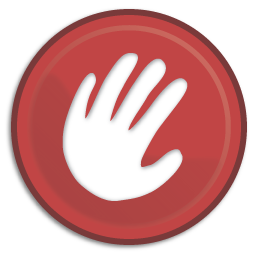
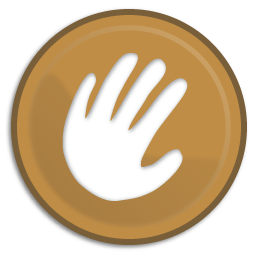
Added Finish gesture, + 2 extra hand states
* Added finish gesture: This is always called whenever any gesture is
finished on an object.
* Added 2 extra hand levels

diff --git a/Assets/Scripts/HandyGestures/HandyDetector.cs b/Assets/Scripts/HandyGestures/HandyDetector.cs
@@ -15,7 +15,6 @@ public class HandyDetector : MonoBehaviour
 		LongPress,
 		Tap,
 		Pan,
-		Slide,
 		Fling
 	}
 
@@ -83,7 +82,7 @@ public class HandyDetector : MonoBehaviour
 	void Reset()
 	{
 		_target = null;
-		_prevType = Gesture.Press;
+		//_prevType = Gesture.Press;
 		if (_activeState != null && _activeState != _idle) {
 			_idle.Activate();
 		}
@@ -124,9 +123,11 @@ public class HandyDetector : MonoBehaviour
 				if (_target != null) {
 					ITap tap = _target as ITap;
 					if (tap != null) {
+						_prevType = Gesture.Tap;
 						tap.OnGestureTap(args); 
 					}
 				} else {
+					_prevType = Gesture.Tap;
 					DoGesture<ITap, TapArgs>(_objects, (t, a) => t.OnGestureTap(a), args);
 				}
 			}
@@ -149,6 +150,7 @@ public class HandyDetector : MonoBehaviour
 					if (lpress != null) {
 						lpress.OnGestureLongPress(largs);
 						handled = largs.handled;
+						_prevType = Gesture.LongPress;
 						longState.Activate();
 					}
 					if (!handled) {
@@ -169,6 +171,7 @@ public class HandyDetector : MonoBehaviour
 							lpress.OnGestureLongPress(largs);
 							if (largs.handled) {
 								_target = lpress;
+								_prevType = Gesture.LongPress;
 								longState.Activate();
 								break;
 							}
@@ -178,6 +181,7 @@ public class HandyDetector : MonoBehaviour
 							pan.OnGesturePan(pArgs);
 							if (pArgs.handled) {
 								_target = pan;
+								_prevType = Gesture.Pan;
 								panState.Activate();
 								break;
 							}
@@ -201,12 +205,18 @@ public class HandyDetector : MonoBehaviour
 				if (fling != null) {
 					fling.OnGestureFling(sArgs);
 					handled = sArgs.handled;
+					if (handled) {
+						//Stay in slide state!
+						_prevType = Gesture.Fling;
+					}
 				}
 				if (!handled) {
 					pan = _target as IPan;
 					if (pan != null) {
 						pan.OnGesturePan(pArgs);
 						if (pArgs.handled) {
+							_prevType = Gesture.Pan;
+							//Change state!
 							panState.Activate();
 						}
 					}
@@ -219,6 +229,7 @@ public class HandyDetector : MonoBehaviour
 						if (sArgs.handled) {
 							//Stay in slide state!
 							_target = fling;
+							_prevType = Gesture.Fling;
 							break;
 						}
 					}
@@ -228,6 +239,7 @@ public class HandyDetector : MonoBehaviour
 						if (pArgs.handled) {
 							//Change state!
 							_target = pan;
+							_prevType = Gesture.Pan;
 							panState.Activate();
 							break;
 						}
@@ -275,7 +287,7 @@ public class HandyDetector : MonoBehaviour
 
 		slideState.Interrupt += delegate {
 			if (slideState.time <= flingTime) {
-				FlingArgs sArgs = new FlingArgs(_prevType, FlingArgs.State.Interrupt, slideState.startPos, _device.pos1);
+				FlingArgs sArgs = new FlingArgs(Gesture.Fling, FlingArgs.State.Interrupt, slideState.startPos, _device.pos1);
 				IFling f = _target as IFling;
 				if (f != null) {
 					f.OnGestureFling(sArgs);
@@ -339,7 +351,7 @@ public class HandyDetector : MonoBehaviour
 			if (!moved()) {
 				IPan pan = _target as IPan;
 				if (pan != null) {
-					PanArgs pArgs = new PanArgs(Gesture.Fling, PanArgs.State.Hold, panState.startPos, _device.pos1, Vector2.zero);
+					PanArgs pArgs = new PanArgs(Gesture.Pan, PanArgs.State.Hold, panState.startPos, _device.pos1, Vector2.zero);
 					pan.OnGesturePan(pArgs);
 				}
 			}
@@ -348,7 +360,7 @@ public class HandyDetector : MonoBehaviour
 		panState.Moved += delegate {
 			IPan pan = _target as IPan;
 			if (pan != null) {
-				PanArgs pArgs = new PanArgs(Gesture.Fling, PanArgs.State.Move, panState.startPos, _device.pos1, _deltaMove);
+				PanArgs pArgs = new PanArgs(Gesture.Pan, PanArgs.State.Move, panState.startPos, _device.pos1, _deltaMove);
 				pan.OnGesturePan(pArgs);
 			}
 		};
@@ -356,7 +368,7 @@ public class HandyDetector : MonoBehaviour
 		panState.Up += delegate {
 			IPan pan = _target as IPan;
 			if (pan != null) {
-				PanArgs pArgs = new PanArgs(Gesture.Fling, PanArgs.State.Up, panState.startPos, _device.pos1, Vector2.zero);
+				PanArgs pArgs = new PanArgs(Gesture.Pan, PanArgs.State.Up, panState.startPos, _device.pos1, Vector2.zero);
 				pan.OnGesturePan(pArgs);
 			}
 			Reset();
@@ -365,7 +377,7 @@ public class HandyDetector : MonoBehaviour
 		panState.Interrupt += delegate {
 			IPan pan = _target as IPan;
 			if (pan != null) {
-				PanArgs pArgs = new PanArgs(Gesture.Fling, PanArgs.State.Interrupt, panState.startPos, _device.pos1, Vector2.zero);
+				PanArgs pArgs = new PanArgs(Gesture.Pan, PanArgs.State.Interrupt, panState.startPos, _device.pos1, Vector2.zero);
 				pan.OnGesturePan(pArgs);
 			}
 
@@ -376,7 +388,7 @@ public class HandyDetector : MonoBehaviour
 
     #endregion
 
-	int Supported<T>(Vector2 pos)
+	/*int Supported<T>(Vector2 pos)
 	{
 		return Supported<T>(GetAllObjects(pos));
 	}
@@ -389,7 +401,7 @@ public class HandyDetector : MonoBehaviour
 			}
 		}
 		return -1;
-	}
+	}*/
 
 	private delegate void GestureAction<T,TA>(T obj,TA args);
 
@@ -433,7 +445,16 @@ public class HandyDetector : MonoBehaviour
 			}
 		}
 		if (_device.state1 == Device.DeviceState.Up) {
+			IGesture gesture = _target;
 			_activeState.InvokeUp();
+
+			if (gesture != null) {
+				IFinished finished = gesture as IFinished;
+				if (finished != null) {
+					FinishedArgs args = new FinishedArgs(_prevType, false, _startPos, _device.pos1);
+					finished.OnGestureFinished(args);
+				}
+			}
 		}
 	}
 

diff --git a/Assets/Scripts/PlayerController.cs b/Assets/Scripts/PlayerController.cs
@@ -13,28 +13,40 @@ public class PlayerController : MonoBehaviour, IPan
 		Filthy
 	}
 
-	public HandState handState { get; set; }
 
-	public HandState improveHand()
-	{
-		if (handState == HandState.Dirty) {
-			handState = HandState.Clean;
-		} else if (handState == HandState.Filthy) {
-			handState = HandState.Dirty;
+	int _cleanLevel;
+
+	public HandState handState {
+		get {
+			switch (_cleanLevel) {
+			case 0:
+				return HandState.Clean;
+			case 1:
+			case 2:
+				return HandState.Dirty;
+			default:
+				return HandState.Filthy;
+			}
 		}
-		
-		return handState;
 	}
 
-	public HandState spoilHand()
+	public int cleanLevel {
+		get { return _cleanLevel; }
+		set { _cleanLevel = Mathf.Clamp(value, 0, 4); }
+	}
+
+	public void clean() {
+		_cleanLevel = 0;
+	}
+
+	public void improveHand()
 	{
-		if (handState == HandState.Clean) {
-			handState = HandState.Dirty;
-		} else if (handState == HandState.Dirty) {
-			handState = HandState.Filthy;
-		}
-		
-		return handState;
+		--cleanLevel;
+	}
+
+	public void spoilHand()
+	{
+		++cleanLevel;
 	}
 
 	// Use this for initialization
@@ -60,10 +72,9 @@ public class PlayerController : MonoBehaviour, IPan
 
 	public void OnGesturePan(PanArgs args)
 	{
-	    if (movement == null)
-	    {
-	        movement = new Clock();
-	    }
+		if (movement == null) {
+			movement = new Clock();
+		}
 
 		if (args.state == PanArgs.State.Move) {
 			moveX = 0;

diff --git a/Assets/Scripts/HUDController.cs b/Assets/Scripts/HUDController.cs
@@ -3,9 +3,7 @@ using System.Collections;
 
 public class HUDController : MonoBehaviour
 {
-	public Texture clean;
-	public Texture dirty;
-	public Texture filthy;
+	public Texture[] textures;
 	// Use this for initialization
 	void Start()
 	{
@@ -24,19 +22,8 @@ public class HUDController : MonoBehaviour
 		Texture tex = null;
 		var player = GameObject.FindObjectOfType<PlayerController>();
 		if (player != null) {
-			var state = player.handState;
-			switch (state) {
-				case PlayerController.HandState.Clean:
-					tex = clean;
-					break;
-				case PlayerController.HandState.Dirty:
-					tex = dirty;
-					break;
-				case PlayerController.HandState.Filthy:
-					tex = filthy;
-					break;
-			}
-			GUI.DrawTexture(new Rect(0, 0, size, size), tex);
+			var level = player.cleanLevel;
+			GUI.DrawTexture(new Rect(0, 0, size, size), textures[level]);
 		}
 	}
 }

diff --git a/Assets/Scripts/HandyGestures/Args.cs b/Assets/Scripts/HandyGestures/Args.cs
@@ -90,6 +90,20 @@ namespace HandyGestures
 		public readonly Vector2 position;
 	}
 
+	public class FinishedArgs : TouchArg {
+		public FinishedArgs(Gesture sender, bool interrupted, Vector2 start, Vector2 position) 
+			: base(sender)
+		{
+			this.start = start;
+			this.position = position;
+			this.interrupted = interrupted;
+		}
+
+		public readonly bool interrupted;
+		public readonly	Vector2 start;
+		public readonly Vector2 position;
+	}
+
 	public class FlingArgs : TouchArg
 	{
 		public FlingArgs(Gesture sender, State state, Vector2 start, Vector2 position) 

diff --git a/Assets/Scripts/HandyGestures/Gestures.cs b/Assets/Scripts/HandyGestures/Gestures.cs
@@ -9,6 +9,11 @@ namespace HandyGestures
 		void OnGesturePress(PressArgs args);
 	}
 
+	public interface IFinished : IGesture
+	{
+		void OnGestureFinished(FinishedArgs args);
+	}
+
 	public interface ITap : IGesture
 	{
 		void OnGestureTap(TapArgs args);

diff --git a/Assets/Scripts/Entities/Accessibles/Fountain.cs b/Assets/Scripts/Entities/Accessibles/Fountain.cs
@@ -21,7 +21,7 @@ public class Fountain : Accessible
 		audioManager.PlaySFX("Fountain");
 
 		var player = GameObject.FindObjectOfType<PlayerController>();
-		player.handState = PlayerController.HandState.Clean;
+		player.clean();
 
 		return true;
 	}
